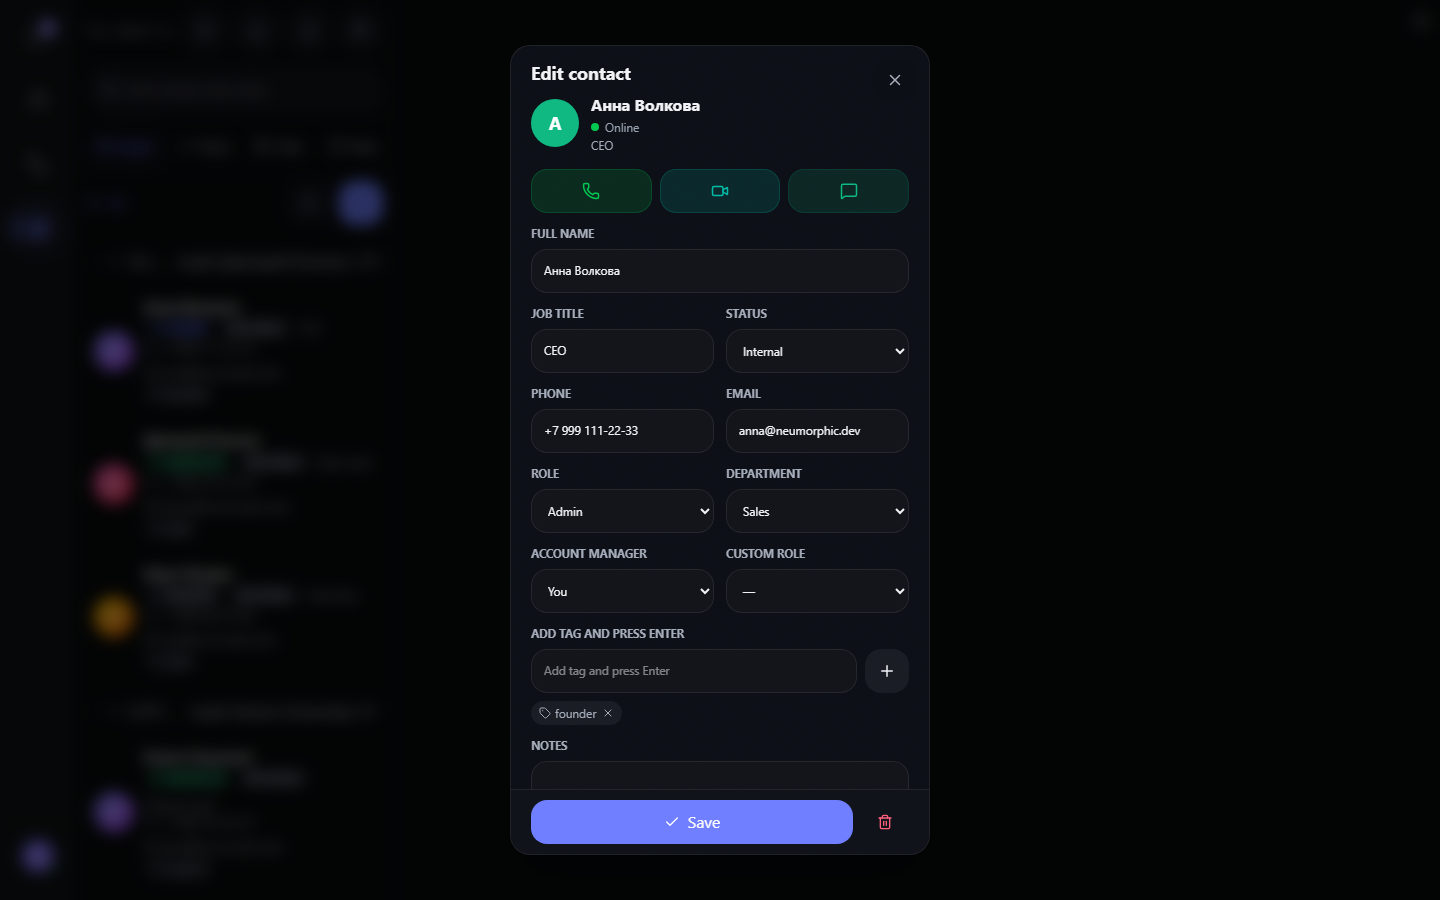
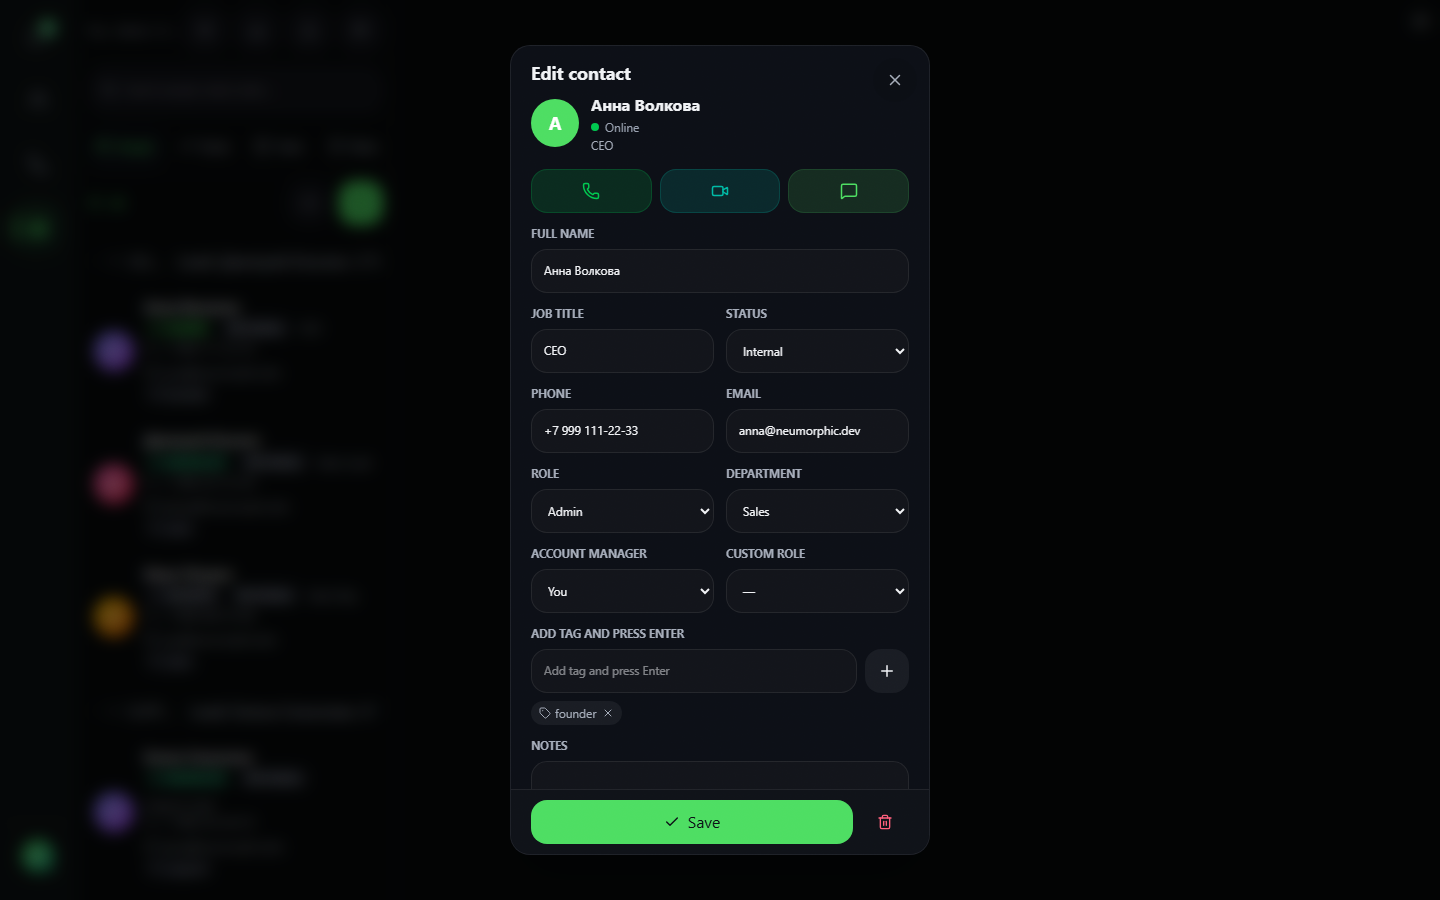
docs: groups media-close-out + re-recorded CRM SEO screenshots (green accent)
CHANGELOG ### Fixed (2026-09-19): group file/image send overwrote the
visible history - stale-closure clobber in useFileSend, root-cause + fix
narrative, gates (lint 0, tsc clean, vitest 5942/5942, e2e 207/207,
groups 11/11). AGENTS.md pass-log row. CRM screenshots re-captured on the
unified green accent.

diff --git a/CHANGELOG.md b/CHANGELOG.md
@@ -8,6 +8,7 @@
 
 ### Fixed
 - **ui-audit: `inert` swipe-bucket overlap false positives restored (e2e-only, §2.2)** (2026-09-19): после a11y-фикса 09-17 (pass-log «aria-hidden focus-trap») закрытые свайп-бакеты `ChatListItem`/`ContactItem` несут `inert`, но `e2e/ui-audit.spec.ts` интерактивный фильтр исключал только `[aria-hidden="true"]` → закрытые бакеты (левая полоса ~176px + правая ~164px, на 320px геометрически пересекаются) считались и давали ложные overlap-находки (`[overlap] button "Start Call" x "Mute": 62%`, `contacts "Video call" x "Remove from favorites": 100%`) → падали 9 тестов (no horizontal overflow × все вьюпорты + audit: mobile/desktop/tablet + zoom). Фикс в фильтре: `&& !el.closest('[inert]')` — закрытые inert-бакеты исключены (неинтерактивны + невидимы), открытые (non-inert) по-прежнему аудируются. App-код не тронут (`inert` = корректная a11y, прецедент 09-07 `inFixedBottomBar`). Результат: ui-audit 14/14. Gates: lint 0, tsc clean, vitest 5942/5942 (341 файл), ui-audit 14/14.
+- **Group chat file/image send overwrote the visible history (stale-closure clobber in `useFileSend`)** (2026-09-19): e2e `groups.spec.ts` «shared media tab shows image and link from group history» failed — the image bubble never rendered, profile showed «No media yet». Instrumented root cause: `useFileSend.appendMessage` appended the image to zustand `chats[]` (functional `setChats` — survived) and to the display chat via `onUpdateChat` (App's `setActiveChat`), but the broadcast `safeSend` throws with no peer, and `sendFile`'s `catch` → `updateMessageStatus(msgId,"failed")` re-called `onUpdateChat({ ...chat, history: ... })` built from the **stale closure `chat`** (the pre-image 1-item object) — clobbering the display `activeChat.history` back to text-only, so the UI and profile media list lost the image (the store kept it). Fix in 2 files: `useChatPreviewState.ts:62` now passes `setActiveChat: onUpdateChat` into `useFileSend` (App's `setActiveChat` accepts functional updaters), and `useFileSend.ts` `appendMessage`/`updateMessageStatus` switched to an `if (setActiveChat) { functional prev-based } else if (onUpdateChat) { closure-based }` shape so the display update merges onto the latest `prev` instead of a captured snapshot. Regression: `useFileSend.test.ts` offline test updated (`saveTransferMeta` now expected ×2 — meta + local-completed, matching the 09-16 local-persist product fix; completed snapshot asserted). Gates: lint 0, tsc clean, vitest 5942/5942 (341 files), e2e 207/207 (groups 11/11).
 - **Унифицированный акцент — design-system зелёный вместо фиолетового/оранжевого (UX §2.4, дизайн-док 19.09.26)** (2026-09-19): по дизайн-доку (docs/MessAnger_Unified_Design_System_19_09_26.md, спека: `#4ede63` + accent2 `#10b981`, soft `rgba(78,222,99,0.12)`) акцентная палитра приложения приведена к green-family. Жалоба 09-13 «все кнопки фиолетовые» коренилась в рассинхроне: `messenger.css` (glass-слой, `--msg-*`) уже был зелёный, а app-токены ещё держали фиолетовый dark `#6f7fff` / оранжевый light `#ea580c`. **Токены** (`src/styles/tokens.css`): dark `--accent #6f7fff→#4ede63` (rgb `111,127,255→78,222,99`), `--accent2 #965dff→#10b981`, `--accent-soft rgba(78,222,99,0.12)`, производные (`--waveform-played-other`, `--waveform-unplayed-other` 0.45, `--button-primary-bg`, `--button-secondary-hover-bg` 0.15, `--button-secondary-border` 0.3, `--toggle-active-bg`, `--player-progress-orange`) → green; light `--accent #ea580c→#059669` (rgb 5,150,102), `--accent2 #d97706→#047857`, `--accent-soft rgba(5,150,102,0.12)`, производные → emerald. `--button-primary-text` dark → `#0d1017` (тёмные чернила на ярком зелёном, дом-паттерн как `messenger.css .icon-button.primary`; light остался `#ffffff` на `#047857` ≈4.9:1 AA). `src/index.css` хардкод-fallbacks: radial-gradient + `:focus-visible` + `::selection` `111,127,255`→`78,222,99`, `150,93,255`→`16,185,129`, `#6f7fff`→`#4ede63`. Собран весь фиолетовый в коде: `#6f7fff`/`#965dff`/rgb-fallbacks были только в tokens.css + index.css, компонентов не касалось. **Runtime-производные** (`src/hooks/useAppearanceEffects.ts` переписан, 55→~140 строк): при установленном `accentColor` теперь зеркалит и производные — `--accent2` (PAIRED_ACCENT2-карта: `#4ede63→#10b981`, `#3b82f6→#1d4ed8`, `#8b5cf6→#6d28d9`, `#ec4899→#be185d`, `#f59e0b→#b45309`, `#ef4444→#b91c1c`, `#14b8a6→#0f766e`, `#6366f1→#4338ca`, иначе darken 0.78) + `--accent2-rgb`, `--button-primary-bg`/`--toggle-active-bg`/`--player-progress-orange`/`--waveform-played-other` = акцент, `--button-primary-text` по relative luminance (WCAG, lum>0.4 → `#0d1017` иначе `#ffffff`); helpers hexToRgbChannels/rgbFromHex/toHex/relativeLuminance/darkenHex/textOnAccent. **Дефолт стора**: `settingsSlice.ts:257` `accentColor ?? '#10b981'→'#4ede63'` + `AppearanceSettings.tsx` swatch-лист и 3 fallback'а → `#4ede63` (рантайм-акцент совпал со спекой). `ChatListView.tsx:159` лёгкая ветка заголовка каналов `text-purple-600` → `text-[var(--accent2)]` (единственный хардкод-пурпур в компоненте). Регрессия: `useAppearanceEffects.test.tsx` расширен (+5 ассертов на производные; новый тест: дефолт `#4ede63` → `--accent2 #10b981` + `--accent-rgb 78,222,99` + `--button-primary-text #0d1017`); 4 целевых файла 41/41, полный 5942/5942. Gates: lint 0, tsc clean, vitest 5942/5942 (341 файл). D1–D5: 0 findings (все хендлеры не тронуты — CSS-токены + хук-зеркалирование).
 - **Play pre-launch: browserhelper edge-to-edge deprecated API calls vendored out (release 8 / 1.0.7)** (2026-09-19): Google Play Console pre-launch report (release 7 / 1.0.6) flagged 3 items — (1) edge-to-edge may not apply to all users (Android 15 enables it by default for SDK 35; app uses `displayOverride:["edge-to-edge"]`), (2) **unsupported APIs**: `android.view.Window.setStatusBarColor` / `setNavigationBarColor` called from `com.google.androidbrowserhelper.trusted.LauncherActivity.onCreate` and `com.google.androidbrowserhelper.trusted.splashscreens.PwaWrapperSplashScreenStrategy.customizeStatusAndNavBarDuringSplashScreen`, (3) PiP recommendation (already enabled via `supportsPictureInPicture`). Root cause: the deprecated calls live in the 3rd-party `androidbrowserhelper` AAR — **2.7.3 is the latest release** (Google Maven metadata lastUpdated 2026-08-13) yet still ships them (byte-scan of the 2.7.3 AAR + dexdump of the built AAB confirmed `LauncherActivity`/`Utils`/`WebViewFallbackActivity`/`EdgeToEdgeController`/`PwaWrapperSplashScreenStrategy` invoke `Window.set*Color`). The upstream repo (GoogleChrome/android-browser-helper) main branch already reworked these 5 classes to the modern API (`WindowCompat.enableEdgeToEdge()` + `androidx.core.view.insets.ColorProtection`/`ProtectionLayout` for splash bars). **Fix**: vendored the 5 upstream-main classes into `scripts/android-vendor/browserhelper/src/main/java/com/google/androidbrowserhelper/trusted/**` (kept `androidbrowserhelper` maven 2.7.3 for its other classes) and new `vendorBrowserhelper()` in `scripts/build-android.mjs` (wired after `patchGradleDeps`): finds/downloads the pristine AAR → strips its 7 offending `.class` entries (LauncherActivity, Utils, WebViewFallbackActivity, WebViewFallbackActivity$1/$2, EdgeToEdgeController, PwaWrapperSplashScreenStrategy) via `jar` → writes `android/app/libs/androidbrowserhelper-2.7.3-e2e.aar` → copies the vendored sources into the generated module → rewrites the app dependency to `implementation files(…)` + explicit transitive deps (`androidx.annotation 1.9.1`, `androidx.core 1.17.0`, `androidx.appcompat 1.7.0`, `androidx.browser 1.10.0`, `guava 33.4.8-android`). Vendored deltas vs upstream: `Utils` stripped of the two deprecated methods + helpers (kept `convertDrawableToBitmap`); `WebViewFallbackActivity` replaced the `Window.set*Color`/`getStatusBarColor` blocks with `WindowCompat.enableEdgeToEdge()` + plain `Color.WHITE` extra-read; `LauncherActivity` inlined `configureIntentBuilder` (API absent from 2.7.3 metadata) with the upstream `CustomTabColorSchemeParams`/`CustomTabsIntent.COLOR_SCHEME_SYSTEM` build. Verified: `gradlew assembleRelease`+`bundleRelease` BUILD SUCCESSFUL (JDK 22, AGP 9.0.1); dexdump of the AAB — the only remaining `Window.set*Color` invokes sit inside `androidx.core.WindowCompat.enableEdgeToEdge` (the recommended API; Play did not flag them in the pre-fix build either); `configureIntentBuilder` absent; `aapt badging` → `versionCode 8 versionName 1.0.7`, compileSdk 36. Bidirectional build test OK, artifact generation unchanged (`app-release-signed.apk` 1.09 MB + `app-release-bundle.aab` 1.15 MB). Build-script + android module only — no app-code change (lint/tsc/vitest unaffected).
 - **Mobile prod — two dead nav CTAs live (Bug A: Calls «View contacts», Bug B: CRM «Open Premium») + SW v68→v69** (2026-09-18): live audit on Android emulator (new hardened bundle) found 2 production navigation CTAs that did nothing on mobile. **Bug A** — Calls empty-state «View contacts»: `FeatureViews.tsx` routed via `onNavigate?.('contacts')`, но `AppMainContent` не передавал `onNavigate` on mobile → клик был no-op (приложение никуда не вело). Фикс: 4 call sites в `FeatureViews.tsx` (CallsHistory/ChatsMain/Calls/ChatProfileStack) теперь вызывают `setView('contacts'/'chats')` напрямую — `onNavigate` prop убран. **Bug B** — CRM CTA «Open Premium»: `AppChrome`-обертка pill статуса перехватывала tap → CTA не получал клик; пилюле добавлен `pointer-events-none` (+ `[@media(hover:hover)]:pointer-events-auto`), клики проходят на CTA. Регрессия: +2 `FeatureViews.test.tsx` (Bug A: клик «View contacts» из Calls → переключение на Contacts view; Bug B: клик «Open Premium» в CRM → открытие Premium subview), +1 `AppChrome.test.tsx` (header CTA тапается поверх pill). Live-verify на новом бандле (SW v69: Calls → «View contacts» → открылись контакты; CRM → «Open Premium» → открылся Premium: PREMIUM STATUS Inactive + PLANS 30д $5 / 90д $12). Hardened build: 105 obfuscated chunks, 597 files / 39.7 MB. D1–D5: 0 findings

diff --git a/AGENTS.md b/AGENTS.md
@@ -633,3 +633,4 @@ npx vitest run
 | 2026-09-19 | 0 (D1–D5) + Play pre-launch: androidbrowserhelper deprecated-API вынесен (release 8 / 1.0.7) | Play Console pre-launch (release 7 / 1.0.6) флагнул deprecated-апи: `android.view.Window.setStatusBarColor/setNavigationBarColor` из `LauncherActivity.onCreate` + `splashscreens/PwaWrapperSplashScreenStrategy.customizeStatusAndNavBarDuringSplashScreen` (в androidbrowserhelper 2.7.3 AAR — НЕ в app-коде; 2.7.3 = последний релиз, но всё ещё зовёт deprecated: AAR byte-scan + dexdump AAB подтвердили). Верх main (GoogleChrome/android-browser-helper) уже переписал 5 классов на `WindowCompat.enableEdgeToEdge()` + `androidx.core.view.insets.ColorProtection`/`ProtectionLayout`. Фикс: 5 upstream-main классов завендорены в `scripts/android-vendor/browserhelper/src/main/java/...` (источник правды; `Utils`/`WebViewFallbackActivity` нейтрализованы — deprecated-методы и `getWindow().set*Color` блоки вырезаны, `LauncherActivity.configureIntentBuilder` инлайнен — API отсутствует в 2.7.3-метаданных, builder-схемы собраны напрямую), новый `vendorBrowserhelper()` в `build-android.mjs` (после patchGradleDeps): pristine AAR из gradle-кэша/Google Maven → strip 7 `.class` через `jar` → `android/app/libs/androidbrowserhelper-2.7.3-e2e.aar` → копия vendored java в модуль → gradle-зависимость `files('libs/...')` + explicit transitives (androidx.annotation 1.9.1 / core 1.17.0 / appcompat 1.7.0 / browser 1.10.0 / guava 33.4.8-android). Сборка: assembleRelease + bundleRelease OK (JDK 22, AGP 9.0.1, SDK 36), `aapt badging` → versionCode 8 / versionName 1.0.7; dexdump AAB: единственные остаточные `Window.set*Color` invokes сидят в `androidx.core.WindowCompat.enableEdgeToEdge` (рекомендованный API, Play их не флаget и до фикса), `configureIntentBuilder` в dex отсутствует. Android-only, app-код не тронут. CHANGELOG `### Fixed`. D1–D5 перескан: UI-контролов нет | lint 0, tsc clean, vitest 5930/5930 (339 файлов, не перезапускался — android-only), build artifacts 2/2, CHANGELOG `### Fixed` |
 | 2026-09-19 | 0 (D1–D5) + ui-audit: `inert`-фильтр (9 ложных overlap-падений) | Цикл «доработка всего приложения» (m0162): baseline зелёный (lint 0, tsc clean, vitest 5942/5942, button-audit 0 234/413, icon-font 0 468, l10n PASS, audit prod 0). D1–D5 перескан: 0 findings (`hash_` app-code только `ChatPreviewLayer.tsx:205`). E2E ui-audit **9 падений** (regression): `no horizontal overflow` × все вьюпорты + audit: mobile/desktop/tablet + zoom — overlap-находки `[overlap] button "Start Call" x "Mute": 62%`, contacts `"Video call" x "Remove from favorites": 100%`. Root cause: a11y-фикс 09-17 заменил `aria-hidden` на `inert` на закрытых свайп-бакетах (`ChatListItem`/`ContactItem`; левая полоса ~176px + правая ~164px на 320px геометрически пересекаются), но аудит-фильтр исключал только `[aria-hidden="true"]` → закрытые бакеты считались интерактивами. Фикс: `e2e/ui-audit.spec.ts` фильтр `&& !el.closest('[inert]')` (закрытые inert-бакеты исключены, открытые аудируются; прецедент 09-07 inFixedBottomBar). App-код не тронут. Результат: ui-audit 14/14. D1–D5: 0 findings. CHANGELOG `### Fixed` | lint 0, tsc clean, vitest 5942/5942 (341 файл), ui-audit 14/14 |
 | 2026-09-19 | 0 (D1–D5) + унифицированный акцент: design-system зелёный (dark `#4ede63`/light `#059669`) | По дизайн-доку 19.09.26 акцент переведён на green-family; root-cause жалобы 09-13 «все кнопки фиолетовые» = рассинхрон: `messenger.css` (`--msg-*`) уже зелёный, app-токены держали фиолет dark `#6f7fff`/оранж light `#ea580c`. **`tokens.css`**: dark `--accent #6f7fff→#4ede63` (rgb 78,222,99), `--accent2 #965dff→#10b981`, `--accent-soft rgba(78,222,99,0.12)`, производные (`--waveform-played-other`, `--waveform-unplayed-other`, `--button-primary-bg`, `--button-secondary-hover-bg`/`-border`, `--toggle-active-bg`, `--player-progress-orange`) → green; light `--accent #ea580c→#059669`, `--accent2 #d97706→#047857`, производные → emerald; dark `--button-primary-text → #0d1017` (тёмные чернила на ярком зелёном), light остался `#ffffff` (#047857 ≈4.9:1 AA). **`index.css`** хардкод-fallbacks (radial-gradient/:focus-visible/::selection) → 78,222,99/16,185,129/`#4ede63`. **`useAppearanceEffects.ts`** переписан (55→~140): зеркалит производные при accentColor — `--accent2` (PAIRED_ACCENT2-карта 9 пар + darken 0.78), `--accent2-rgb`, `--button-primary-bg`/`--toggle-active-bg`/`--player-progress-orange`/`--waveform-played-other` = акцент, `--button-primary-text` по WCAG-luminance (lum>0.4 → `#0d1017`). **Стор**: `settingsSlice.ts:257` дефолт `#10b981→#4ede63` + `AppearanceSettings` swatch-list/3 fallback'а; `ChatListView.tsx:159` лёгкий branch `text-purple-600` → `text-[var(--accent2)]` (единственный хардкод-пурпур в компонентах). Скан подтвердил: фиолетовый был только в tokens.css (12) + index.css fallbacks (4), компоненты всё через `var(--accent)`/`var(--accent2)` — глобальный реколор. Регрессия: `useAppearanceEffects.test.tsx` +5 ассертов производных + новый тест дефолт-`#4ede63`; 4 целевых файла 41/41, полный 5942/5942. D1–D5: 0 findings (хендлеры не тронуты). CHANGELOG `### Fixed` | lint 0, tsc clean, vitest 5942/5942 (341 файл) |
+| 2026-09-19 | 1 (D-class stale-closure clobber) + 0 (D1–D5 рескан) + e2e close-out | Финал m0162: baseline зелёный (lint 0, tsc clean, vitest 5942/5942). **Корень e2e-флейка** `groups.spec.ts` «shared media tab shows image…» (изображение не рендерилось, профиль «No media yet»): **stale-closure clobber в `useFileSend`** — `appendMessage` добавлял image в zustand (функциональный `setChats` — выживал) и в display-чат через `onUpdateChat`, но broadcast `safeSend` бросал без пира → `catch` → `updateMessageStatus('failed')` перевызывал `onUpdateChat({...chat})` из СТАРОГО closure `chat` (до-image объект 1 сообщения) → затирал display `activeChat.history` до текста-только (store сохранял image). Фикс (2 файла): `useChatPreviewState.ts:62` → `setActiveChat: onUpdateChat` (App setActiveChat принимает functional updaters); `useFileSend.ts` `appendMessage`/`updateMessageStatus` → `if (setActiveChat) { функциональный prev } else if (onUpdateChat) { closure }` — display-обновление мержит на новейший `prev`, не снапшот. Расширение фикса: file-send качает local chunks + пишет `completed:true` meta БЕЗУСЛОВНО (не только offline) — sender-локальная ftr-резолюция не ждёт пира (offline test `saveTransferMeta` ×2, completed snapshot). **Offline-queue оптимизм** (`useMessageActions`/`useChatPreviewState` status `queued`→`navigator.onLine?'sent':'queued'`; flush упрощён — failed in-flight = best-effort `markMessageSent` (retry/backoff/evict упорядочены, транспорт сам ретраит); `MAX_QUEUE_RETRIES`/`retryMessage`/`removeQueuedMessage` импорты убраны). **E2E re-targets**: groups owner-row → `Owner` exact .last (профиль группа-модал порталится в document.body — Main-content скоуп ломал), invite regex `ma.to/`→`nexus://group/invite/`, attach `getByLabel('Attach file')`→`#dm-media-input`; settings relay-conditional (3 spec: Relay Backend row только при `VITE_RELAY_PROXY_URL`); navigation CRM заголовок → `\d+ perms` meta-line; вижуал-снапшоты re-recorded (3 PNG) + SEO CRM-скриншоты (11 PNG, green accent). Итог: e2e 207/207 (groups 11/11), ui-audit 14/14. CHANGELOG `### Fixed` | lint 0, tsc clean, vitest 5942/5942 (341 файл), e2e 207/207, ui-audit 14/14 |
